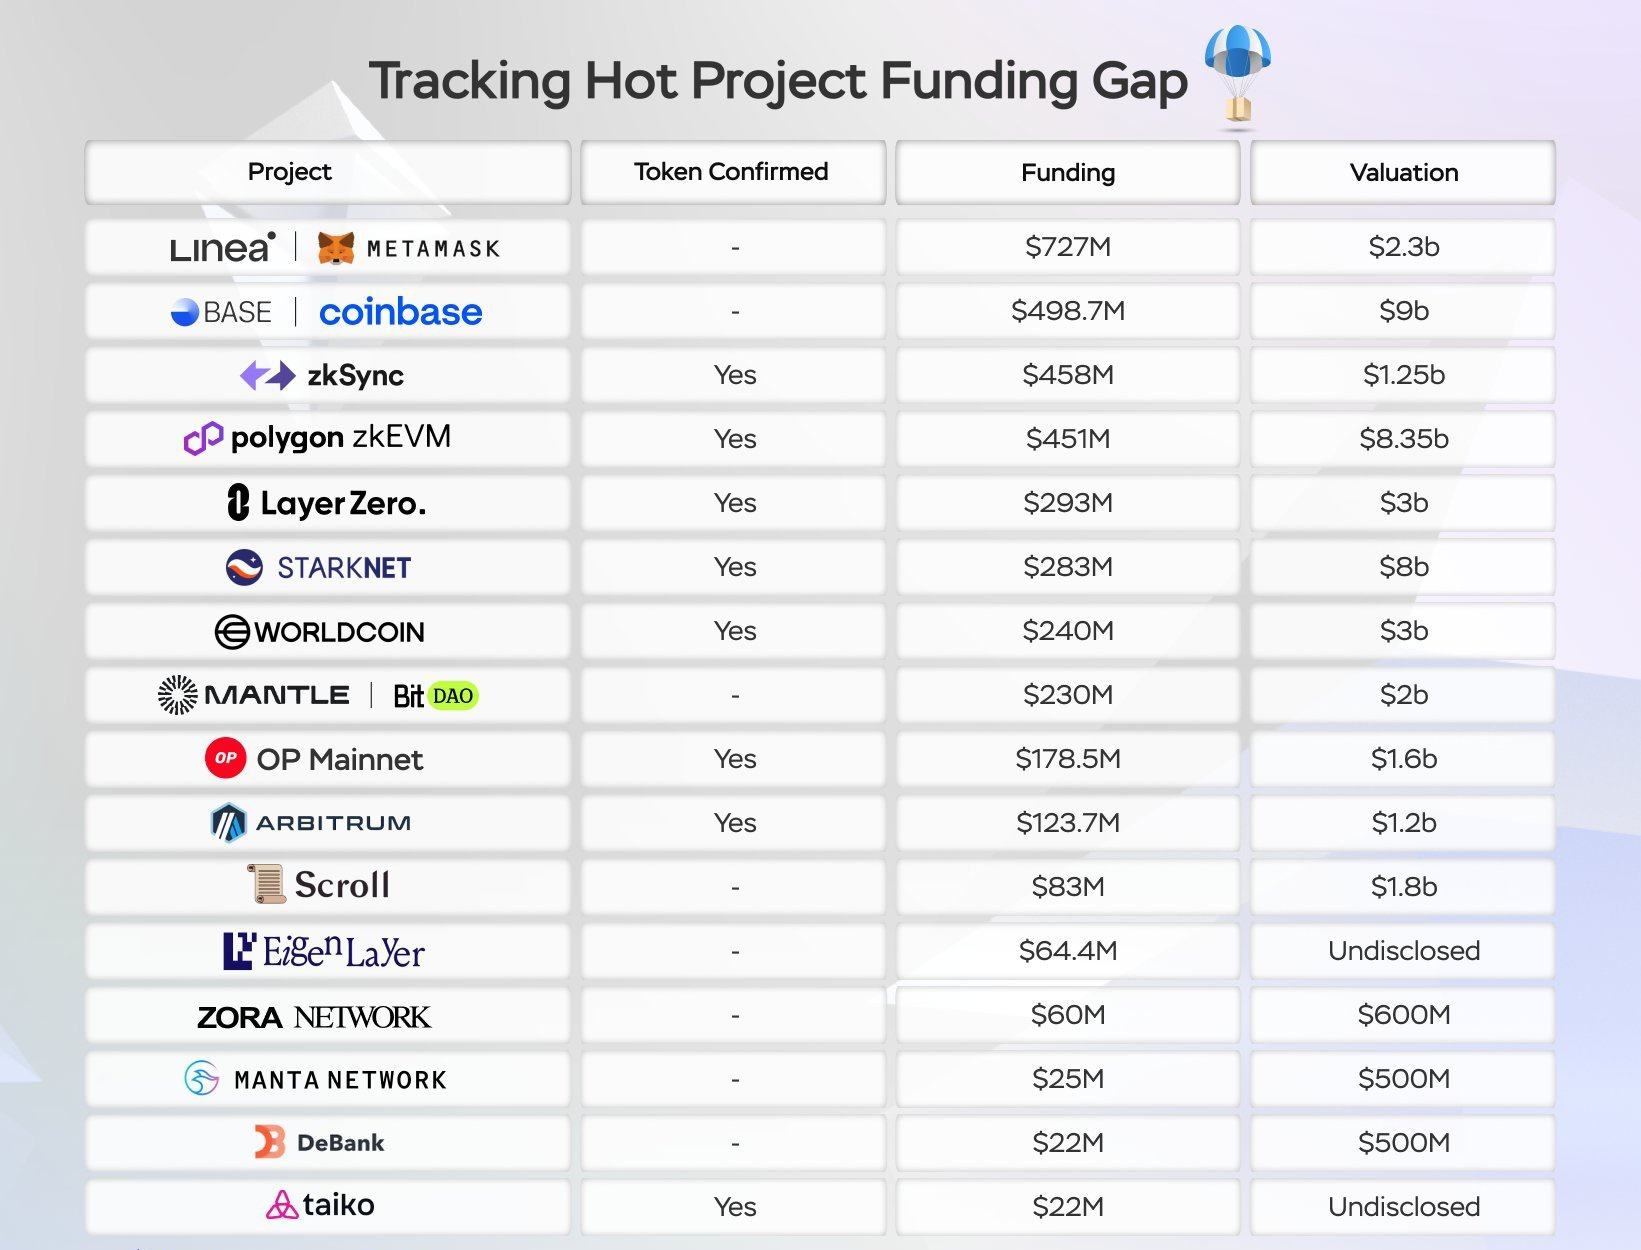
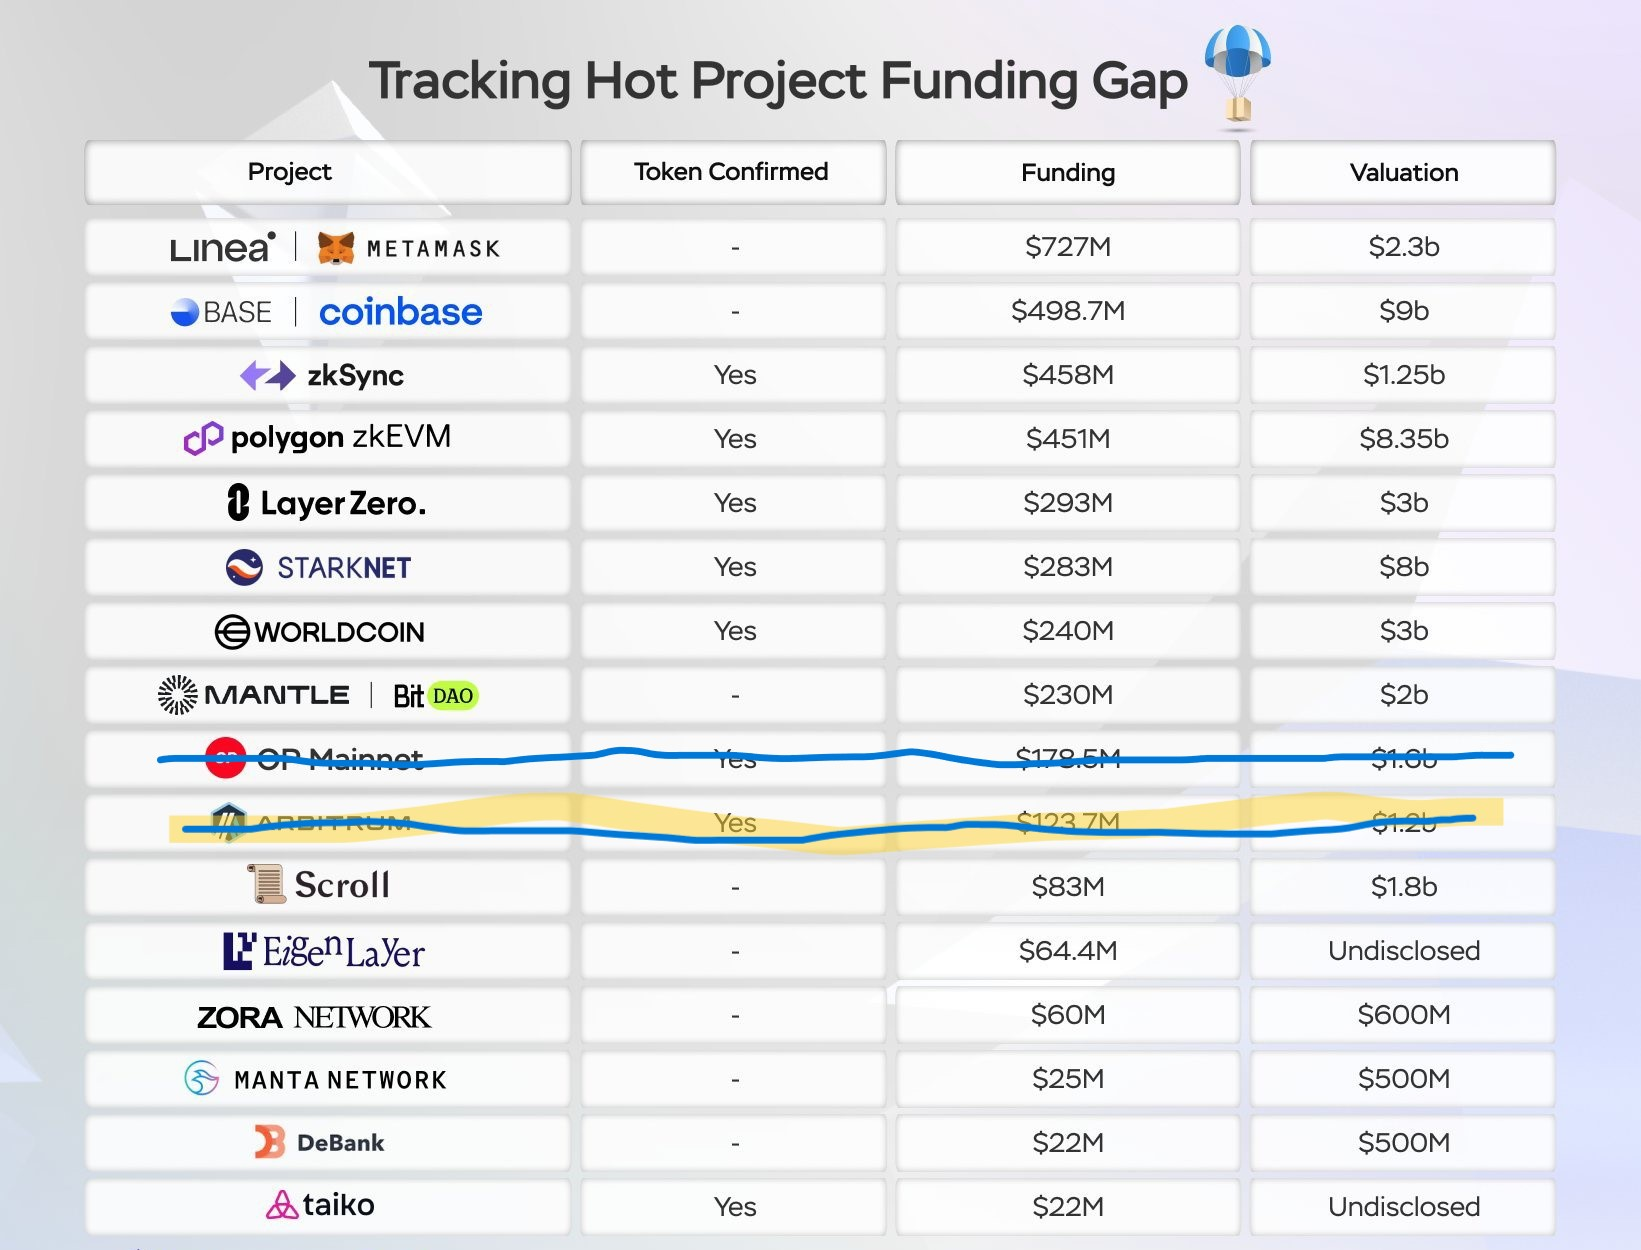
remiving arb & op

Changed region(s): [[0.0932, 0.5928, 0.9324, 0.6864]]

diff --git a/link.html b/link.html
@@ -625,7 +625,7 @@
             </p>
 
             <p>
-              Opbnb native bridge
+              OPbnb native bridge
               <a
                 class="links-project"
                 href="https://opbnb-bridge.bnbchain.org/deposit"
